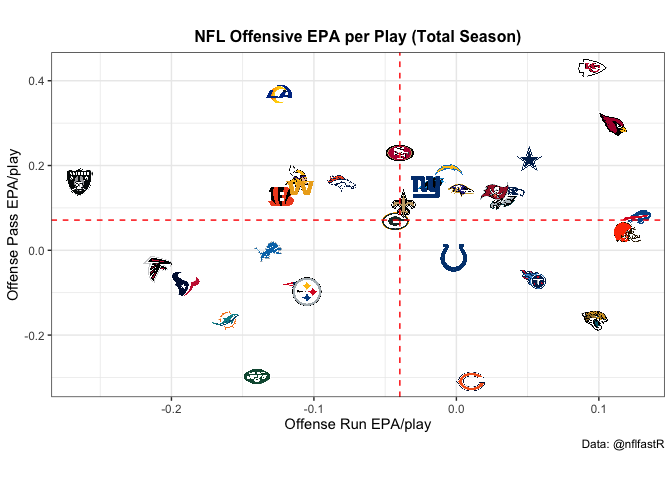
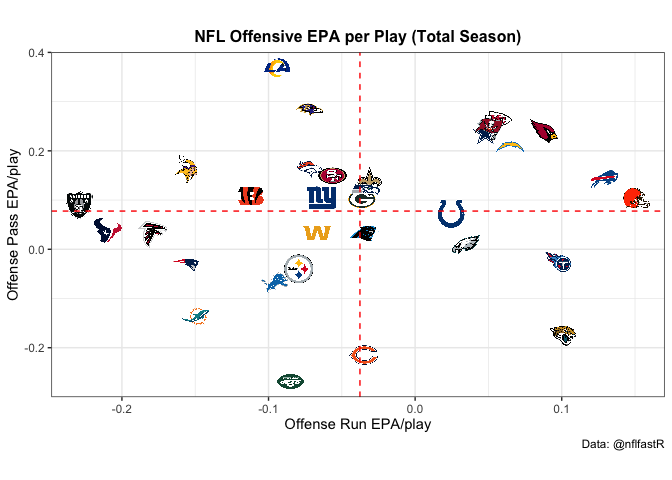
2021-10-12

diff --git a/NFL-Report.md b/NFL-Report.md
@@ -1,5 +1,5 @@
 
-# NFL Landscape: Week 4
+# NFL Landscape: Week 5
 
 ### Overall Efficiency Landscape
 
